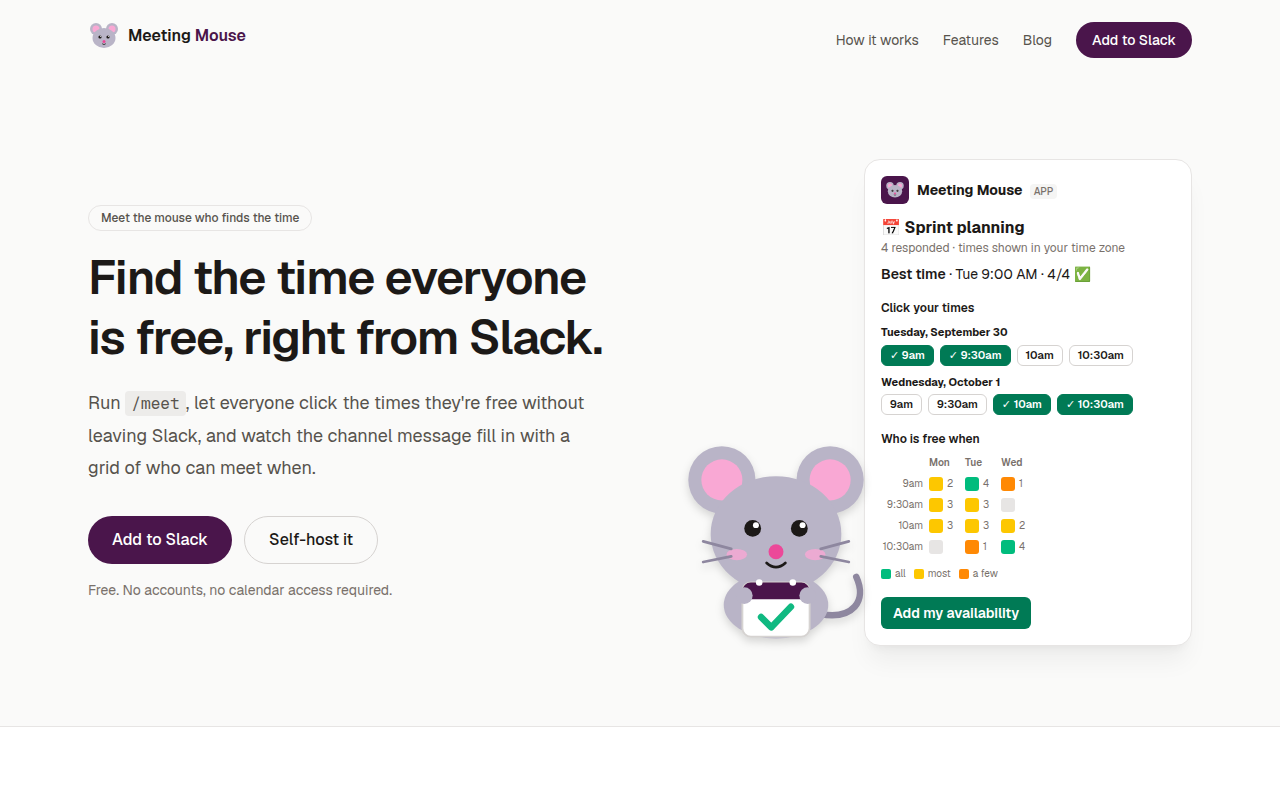
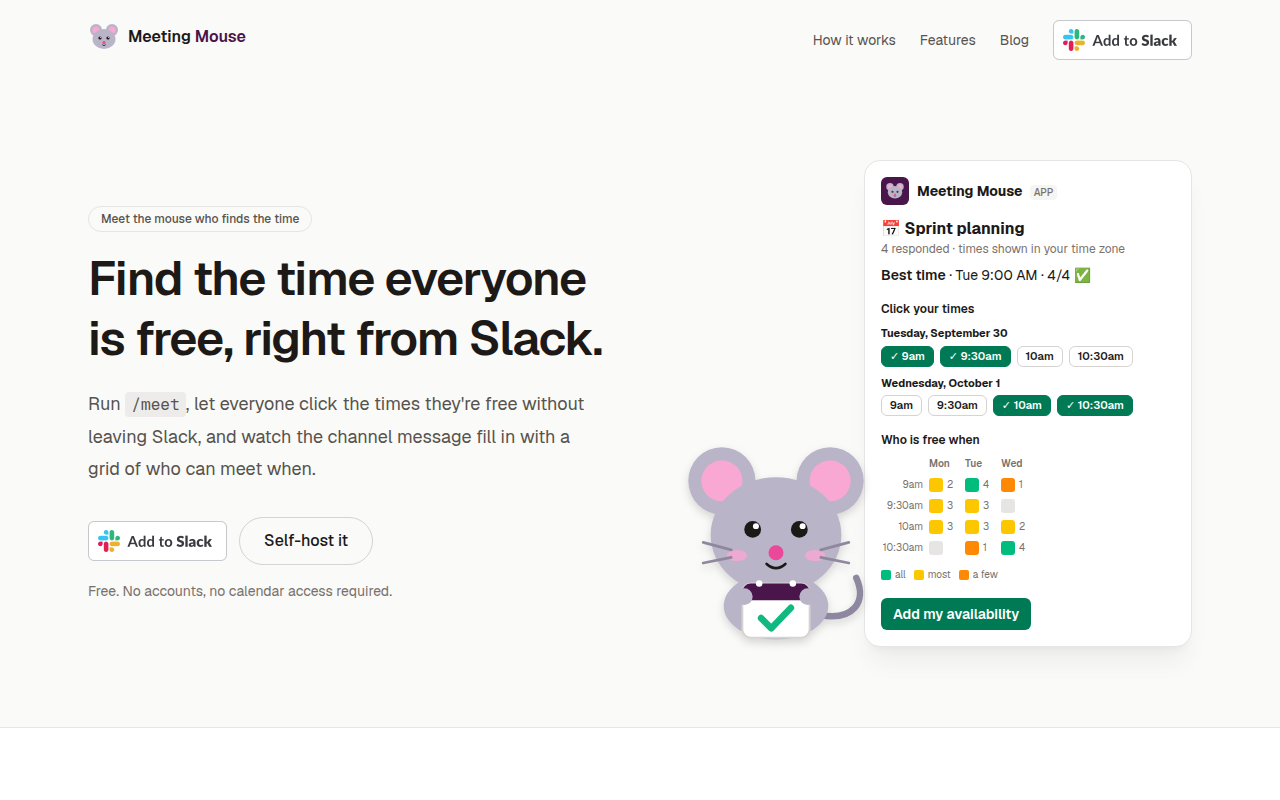
feat(site): the install buttons are Slack's official Add to Slack button (#94)
AddToSlackButton shows the image Slack publishes, with its 2x file, in the
header, the hero and the closing call to action. It links to the app's install
route, not straight to Slack's authorize page: the route adds the signed state
the redirect back requires. The installation page's first screenshot is retaken.

Closes #93

Claude-Session: https://claude.ai/code/session_01UzaggGVT4apmZXcuU4vnLG

diff --git a/src/app/page.tsx b/src/app/page.tsx
@@ -1,6 +1,7 @@
+import { AddToSlackButton } from "@/components/add-to-slack";
 import { LogoMark, Mascot } from "@/components/brand";
 import { SiteFooter, SiteHeader } from "@/components/site";
-import { SELF_HOST_URL, SLACK_INSTALL_URL } from "@/lib/site";
+import { SELF_HOST_URL } from "@/lib/site";
 
 const steps = [
   {
@@ -206,12 +207,7 @@ export default function Home() {
               watch the channel message fill in with a grid of who can meet when.
             </p>
             <div className="mt-8 flex flex-col gap-3 sm:flex-row">
-              <a
-                href={SLACK_INSTALL_URL}
-                className="bg-accent hover:bg-accent-hover inline-flex h-12 items-center justify-center rounded-full px-6 font-medium text-white transition-colors dark:text-stone-950"
-              >
-                Add to Slack
-              </a>
+              <AddToSlackButton className="self-start sm:self-center" />
               <a
                 href={SELF_HOST_URL}
                 className="inline-flex h-12 items-center justify-center rounded-full border border-stone-300 px-6 font-medium transition-colors hover:bg-stone-100 dark:border-stone-700 dark:hover:bg-stone-900"
@@ -289,12 +285,7 @@ export default function Home() {
                 </p>
               </div>
             </div>
-            <a
-              href={SLACK_INSTALL_URL}
-              className="bg-accent hover:bg-accent-hover inline-flex h-12 shrink-0 items-center justify-center rounded-full px-6 font-medium text-white transition-colors dark:text-stone-950"
-            >
-              Add to Slack
-            </a>
+            <AddToSlackButton />
           </div>
         </section>
       </main>

diff --git a/src/components/add-to-slack.tsx b/src/components/add-to-slack.tsx
@@ -1,0 +1,24 @@
+import { SLACK_INSTALL_URL } from "@/lib/site";
+
+const BUTTON = "https://platform.slack-edge.com/img/add_to_slack";
+
+/**
+ * Slack's own Add to Slack button, as Slack publishes it. The link goes to the app's install
+ * route and not straight to slack.com: that route redirects to Slack's authorize page with a
+ * signed `state`, and the redirect back is refused without it.
+ */
+export function AddToSlackButton({ className }: { className?: string }) {
+  return (
+    <a href={SLACK_INSTALL_URL} className={`inline-block shrink-0 ${className ?? ""}`}>
+      {/* Slack serves the 1x and 2x files itself; next/image cannot name a second file for 2x. */}
+      {/* eslint-disable-next-line @next/next/no-img-element */}
+      <img
+        alt="Add to Slack"
+        height={40}
+        width={139}
+        src={`${BUTTON}.png`}
+        srcSet={`${BUTTON}.png 1x, ${BUTTON}@2x.png 2x`}
+      />
+    </a>
+  );
+}

diff --git a/src/components/site.tsx b/src/components/site.tsx
@@ -1,6 +1,7 @@
 import Link from "next/link";
 
 import { BLOG_PATH, FEED_PATH } from "@/blog/paths";
+import { AddToSlackButton } from "@/components/add-to-slack";
 import { Logo } from "@/components/brand";
 import { SUPPORT_EMAIL } from "@/lib/hosted";
 import { POLICIES, type Policy } from "@/lib/policies";
@@ -35,12 +36,7 @@ export function SiteHeader({ home = false }: { home?: boolean }) {
         <Link href={BLOG_PATH} className={NAV_LINK}>
           Blog
         </Link>
-        <a
-          href={SLACK_INSTALL_URL}
-          className="bg-accent hover:bg-accent-hover rounded-full px-4 py-2 font-medium whitespace-nowrap text-white transition-colors dark:text-stone-950"
-        >
-          Add to Slack
-        </a>
+        <AddToSlackButton />
       </nav>
     </header>
   );
